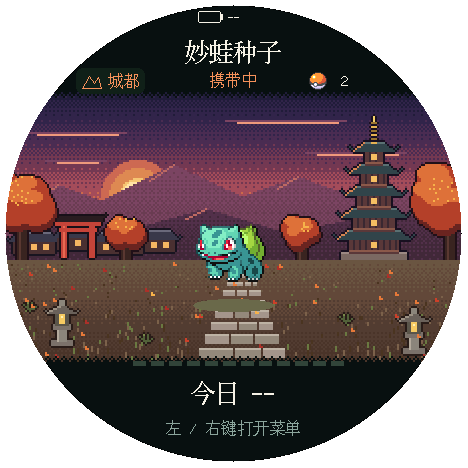
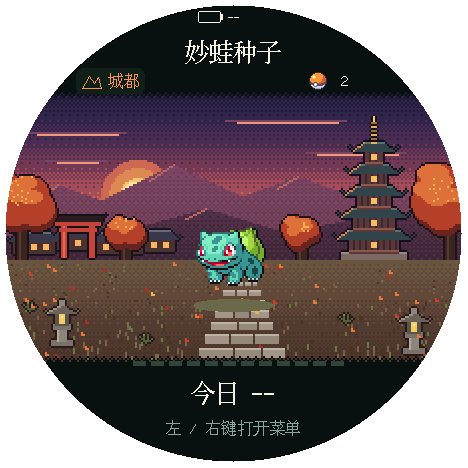
docs(readme): 重新生成首页与五地区主机渲染配图并同步中英文 README

Changed region(s): [[0.4188, 0.4786, 0.5684, 0.6282], [0.4487, 0.1496, 0.5385, 0.1795]]

diff --git a/README.en.md b/README.en.md
@@ -7,7 +7,7 @@
 Walk with your partner, encounter Pokémon, and catch them through rhythm battles and ball throws.<br>
 An offline walking adventure for the round screen of the M5Stack StopWatch (C152).
 
-<img src="docs/images/readme/home.png" width="360" alt="Round home screen: Bulbasaur stands on a Kanto farm path, marked as the carried partner, with 0 species caught beside the ball icon and 4 steps today shown below. Host Runtime/M5GFX render, not a device photo.">
+<img src="docs/images/readme/home.png" width="360" alt="Round home screen: Bulbasaur stands on a Kanto farm path, with 0 species caught beside the ball icon and 4 steps today shown below. Host Runtime/M5GFX render, not a device photo.">
 
 [Getting started](#getting-started) · [Desktop simulation](#desktop-simulation) · [Build and flash](#build-and-flash) · [Development guide (Chinese only)](docs/development.md) · [Verification notes (Chinese only)](docs/verification.md)
 
@@ -45,14 +45,14 @@ See the [usage guide](docs/usage.en.md) for probabilities, evolution costs, cont
 <details>
 <summary>Image sources</summary>
 
-All images are screenshots rendered offscreen with the host Runtime/M5GFX from the 649-species version. The battle and throw images were updated on 2026-11-03; the other images are from 2026-11-02. They are not C152 device photos and cannot establish on-device frame rate, visual quality, or acceptance results. Click an image to open the original 468×468 file. The physical round screen is 466×466; the current M5GFX driver reports 468×468. The PNGs retain only pixels inside the round screen, with transparency outside it.
+All images are screenshots rendered offscreen with the host Runtime/M5GFX from the 649-species version. The initial home screen and five region images were updated on 2026-11-21; the battle and throw images are from 2026-11-03, and the Pokédex image is from 2026-11-02. They are not C152 device photos and cannot establish on-device frame rate, visual quality, or acceptance results. Click an image to open the original 468×468 file. The physical round screen is 466×466; the current M5GFX driver reports 468×468. The PNGs retain only pixels inside the round screen, with transparency outside it.
 
 The table records the original screenshot sources. Some of these tests and screenshot exports were removed during the test audit; they are not current reproduction commands.
 
 | Screen | Original render suite | Screenshot |
 | --- | --- | --- |
 | Initial home screen | `test_home_render` | `home-today-complete-live`: the 4 steps today come from simulated walking in the test; nothing caught yet |
-| Five regions | `test_home_render` | `home-scene-0`–`home-scene-4`: today's count shows -- because the clock is not set; the test save has caught 2 species |
+| Five regions | Host Runtime/M5GFX offscreen render (current Home) | `region-kanto`–`region-unova`: today's count shows -- because the clock is not set; the test save has caught 2 species |
 | Rhythm battle | `test_battle_render` | `battle-idle`: Kanto, Charmander against Pikachu, attack cue |
 | Charged throw | `test_capture_render` | `throw-aim-key-800`: Kanto, facing Bulbasaur after an 800ms hold, upper timing ring closing, two attempts left |
 | Pokédex | `test_adventure_render` | `viewer-entry`: the starter partner in the test save |

diff --git a/README.md b/README.md
@@ -7,7 +7,7 @@
 带着伙伴走路，遇见宝可梦，用节奏对战和投球完成捕捉。<br>
 运行在 M5Stack StopWatch（C152）圆屏上的离线步行探险。
 
-<img src="docs/images/readme/home.png" width="360" alt="圆屏首页：妙蛙种子站在关都的田间小路上，标注携带中，球图标旁显示已捕获 0 种，下方为今日 4 步。主机 Runtime/M5GFX 渲染，不是实机拍摄。">
+<img src="docs/images/readme/home.png" width="360" alt="圆屏首页：妙蛙种子站在关都的田间小路上，球图标旁显示已捕获 0 种，下方为今日 4 步。主机 Runtime/M5GFX 渲染，不是实机拍摄。">
 
 [开始使用](#开始使用) · [桌面模拟](#桌面模拟) · [构建和烧录](#构建和烧录) · [开发指南](docs/development.md) · [验证说明](docs/verification.md)
 
@@ -46,12 +46,12 @@
 <details>
 <summary>画面来源</summary>
 
-全部画面是 649 种版本用主机 Runtime/M5GFX 离屏渲染的截图；对战和投球画面更新于 2026-11-03，其余画面为 2026-11-02。不是 C152 实机拍摄，也不能当作实机帧率、观感或验收结果。点图片打开 468×468 原文件。物理圆屏为 466×466，当前 M5GFX 驱动报告 468×468；PNG 只保留圆屏内像素，圆外透明。
+全部画面是 649 种版本用主机 Runtime/M5GFX 离屏渲染的截图；首屏首页与五个地区画面更新于 2026-11-21，对战和投球画面为 2026-11-03，图鉴为 2026-11-02。不是 C152 实机拍摄，也不能当作实机帧率、观感或验收结果。点图片打开 468×468 原文件。物理圆屏为 466×466，当前 M5GFX 驱动报告 468×468；PNG 只保留圆屏内像素，圆外透明。
 
 | 画面 | 当时的来源 | 截图 |
 | --- | --- | --- |
 | 首屏首页 | `test_home_render` | `home-today-complete-live`：今日 4 步来自测试中的模拟走路，尚未捕获 |
-| 五个地区 | `test_home_render` 的旧地区场景 | `home-scene-0`～`home-scene-4`：未校时，所以今日显示 --；测试档已捕获 2 种 |
+| 五个地区 | 主机 Runtime/M5GFX 离屏渲染（当前首页） | `region-kanto`～`region-unova`：未校时，所以今日显示 --；测试档已捕获 2 种 |
 | 节奏对战 | 已删除的 `test_battle_render` | `battle-idle`：关都，小火龙对皮卡丘，攻击提示 |
 | 蓄力投球 | `test_capture_render` 的旧瞄准场景 | `throw-aim-key-800`：关都，对手为妙蛙种子，按住 800ms，上方判定圈收拢，剩余两次 |
 | 图鉴 | `test_adventure_render` 的旧旅程 | `viewer-entry`：测试档中的初始伙伴 |
